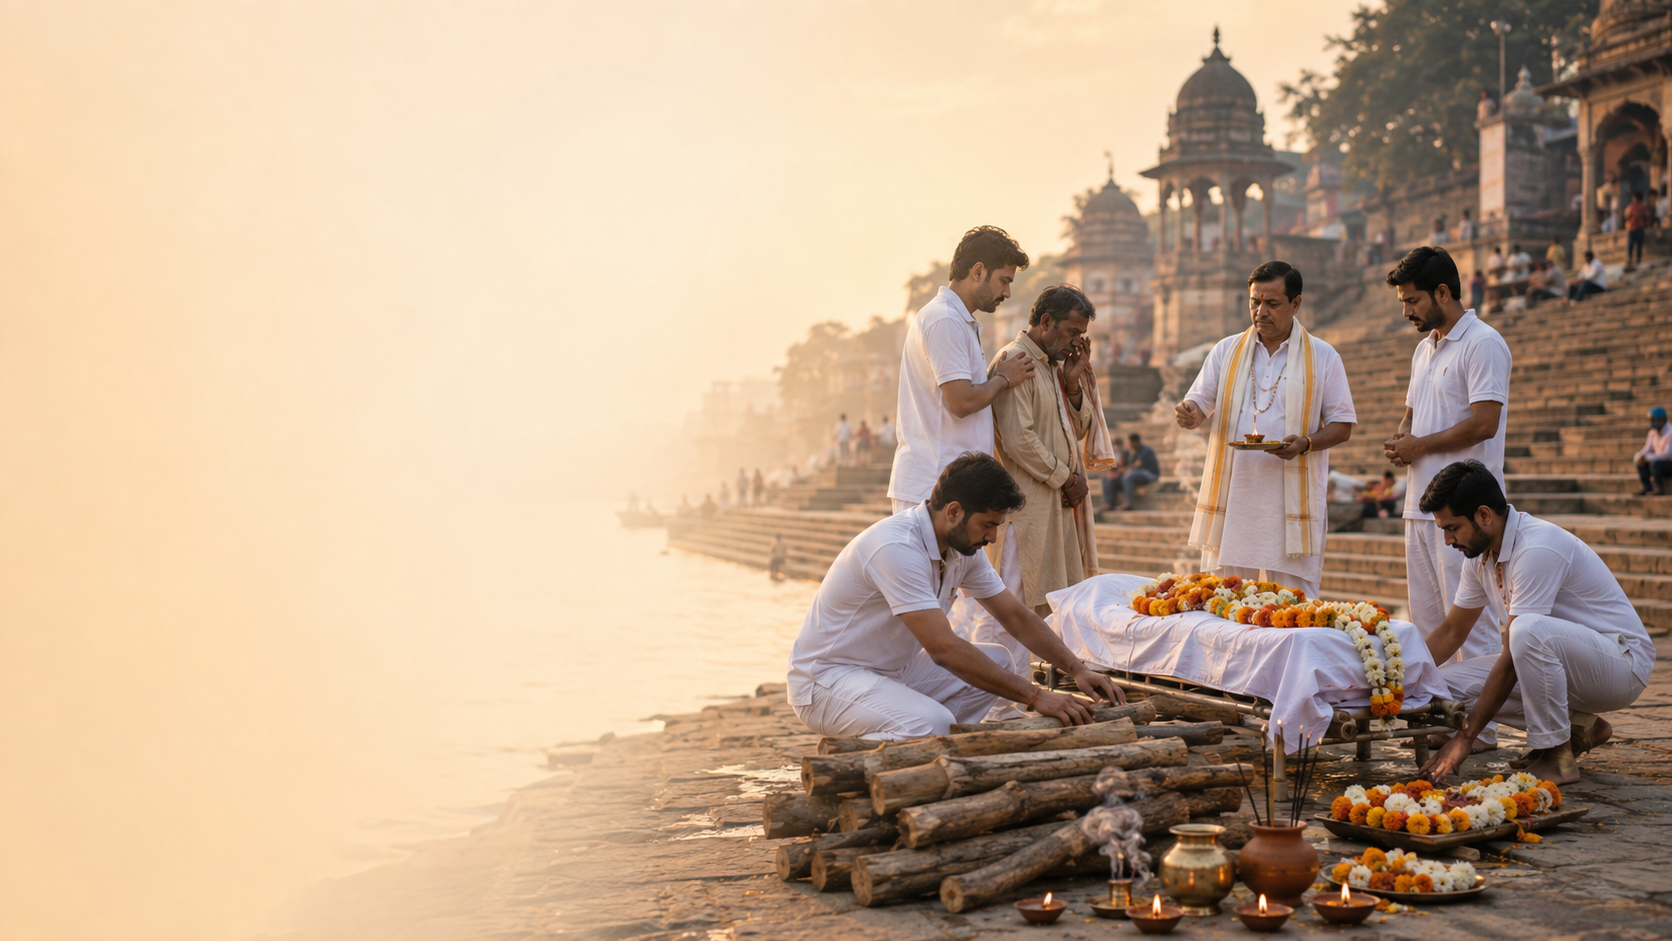
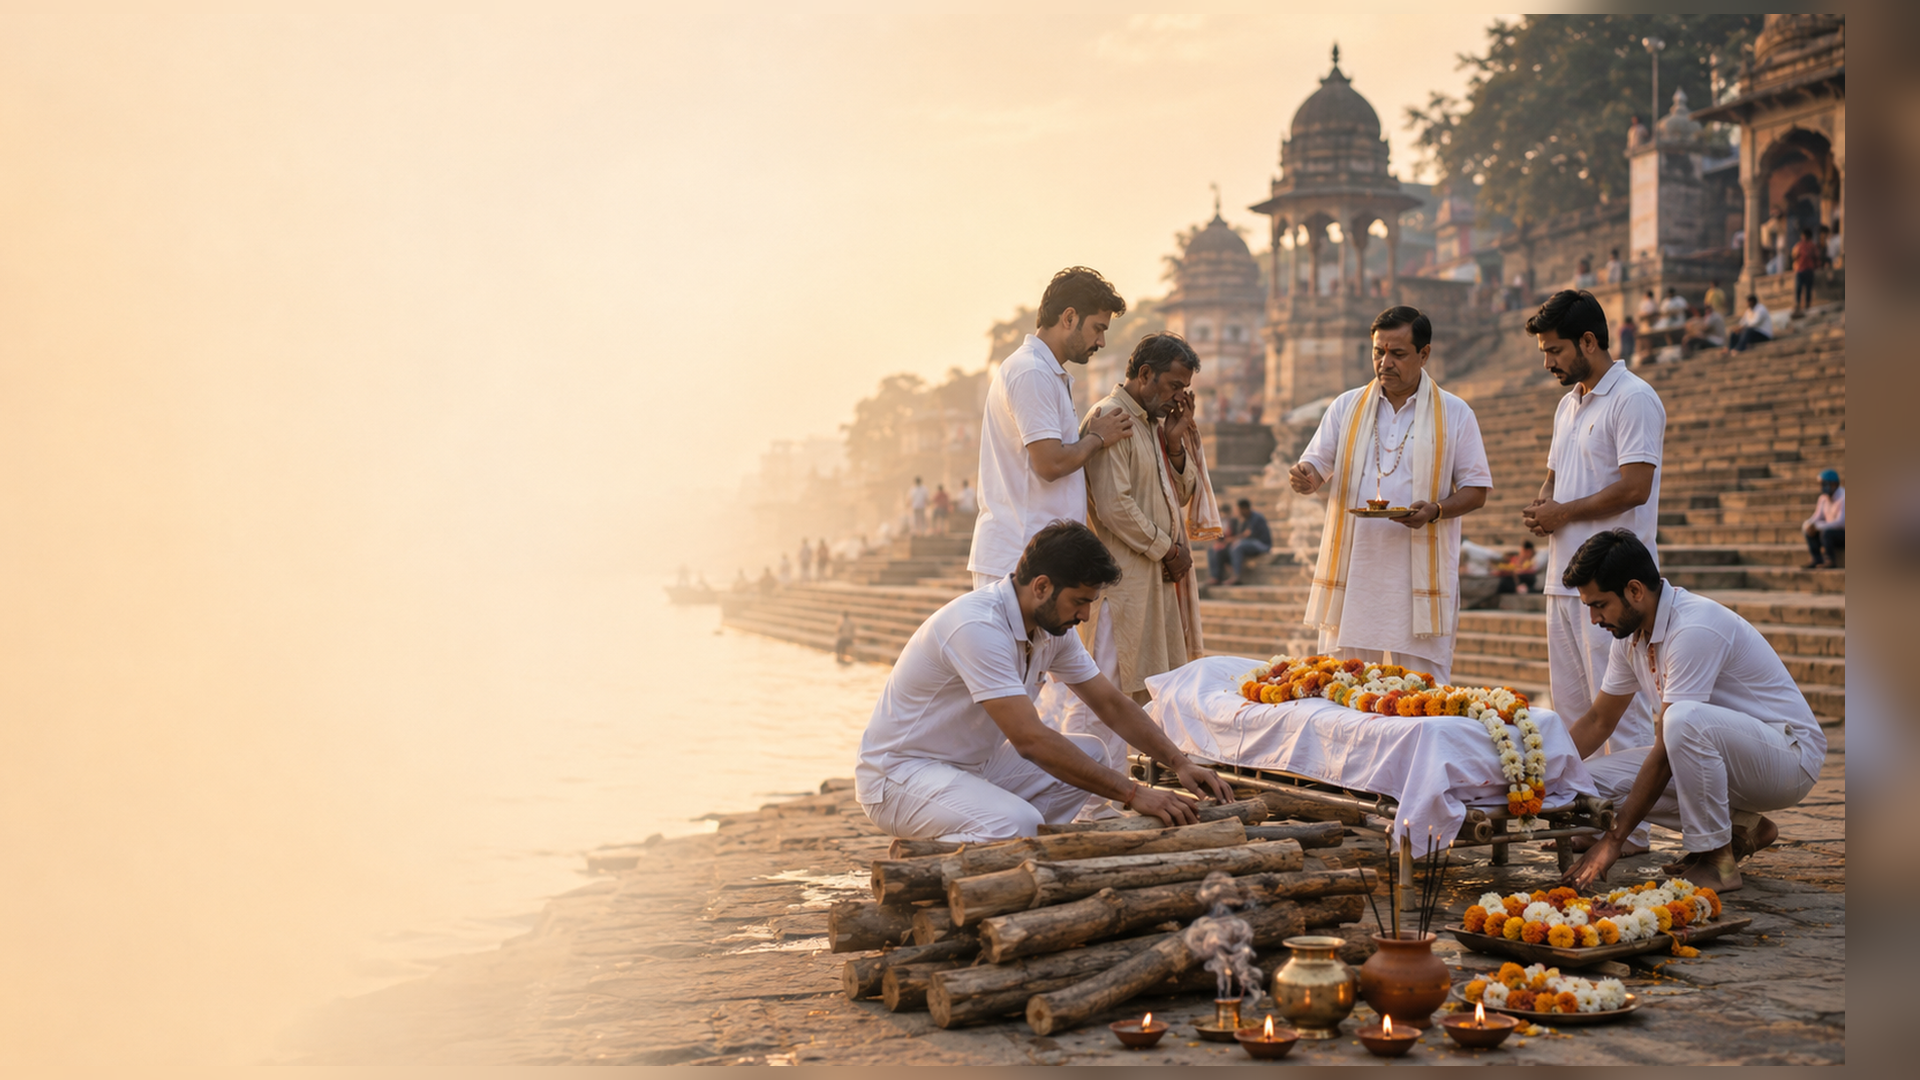
Footer and Hero components; add new images for enhanced visuals

diff --git a/components/sections/hero/Hero.tsx b/components/sections/hero/Hero.tsx
@@ -30,7 +30,7 @@ export default function Hero({ variant = "voyage" }: HeroProps) {
     () =>
       variant === "seva"
         ? [
-          "/hero-images/1.png",
+          "/hero-images/u.png",
           "/hero-images/2.png",
           "/hero-images/3.png",
           "/hero-images/4.png",
@@ -97,9 +97,9 @@ export default function Hero({ variant = "voyage" }: HeroProps) {
       : "Compassionate end-to-end support for families, with verified services, transparent guidance and clear coordination at every step, ensuring every ritual is completed respectfully, peacefully and without unnecessary stress.";
 
   return (
-    <section className="group relative h-[790px] w-full overflow-hidden bg-[#fbf5ea] md:h-[700px] lg:h-[650px] xl:h-[680px]">
+    <section className="group relative h-[790px] w-full overflow-hidden bg-[#fbf5ea] md:h-[700px] lg:h-[650px] xl:h-[810px]">
       {/* HD image slider: image is kept on the right, so it is not stretched across the full page. */}
-      <div className="absolute inset-y-0 right-0 w-full md:w-[66%] lg:w-[68%]">
+      <div className="absolute inset-y-0 right-0 w-full md:w-[68%] lg:w-[70%] xl:w-[72%]">
         {images.map((image, index) => (
           <div
             key={image}
@@ -115,7 +115,7 @@ export default function Hero({ variant = "voyage" }: HeroProps) {
               quality={100}
               unoptimized
               sizes="(max-width: 767px) 100vw, 68vw"
-              className={`object-cover object-center transition-transform duration-[6000ms] ease-out ${index === currentIndex ? "scale-[1.04]" : "scale-100"
+              className={`object-cover object-[76%_center] transition-transform duration-[6000ms] ease-out ${index === currentIndex ? "scale-[1.04]" : "scale-100"
                 }`}
             />
           </div>

diff --git a/components/layout/Footer/Footer.tsx b/components/layout/Footer/Footer.tsx
@@ -341,7 +341,7 @@ export default function Footer({ variant = "seva" }: FooterProps) {
               © {new Date().getFullYear()} {brandName} • All rights reserved
             </p>
             <p className="font-serif text-[13px] tracking-[0.25em] text-[#D9A84F]/40">
-              ॐ शांति शांति शांति
+              ॐ शांति शांति शांति ॐ 
             </p>
             <div className="flex items-center gap-4">
               <Link href="/privacy-policy" className="transition hover:text-[#E4B75F]">
